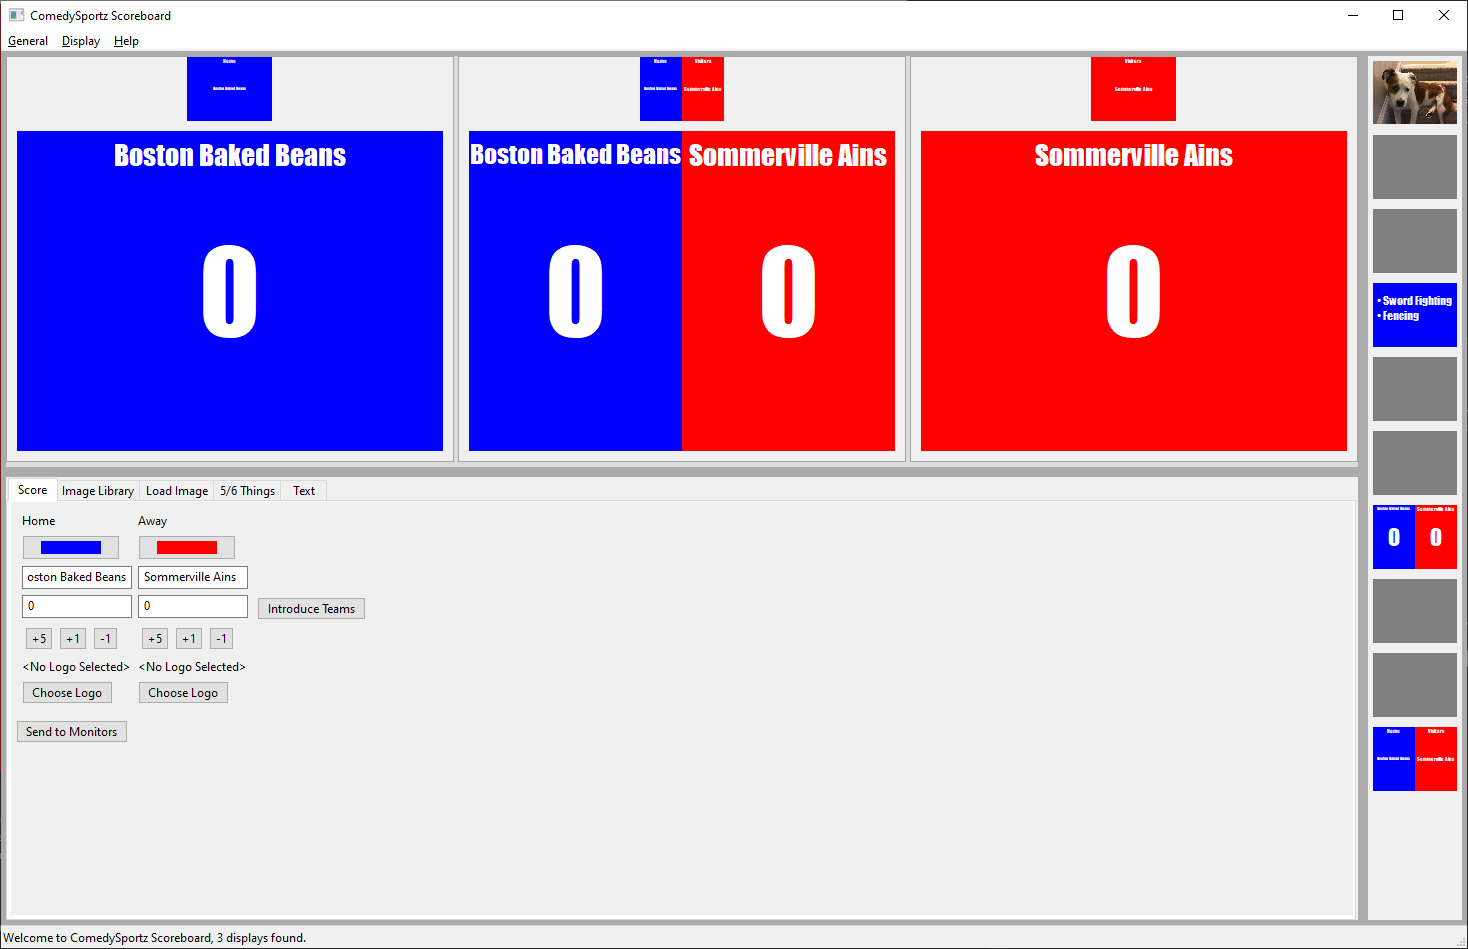
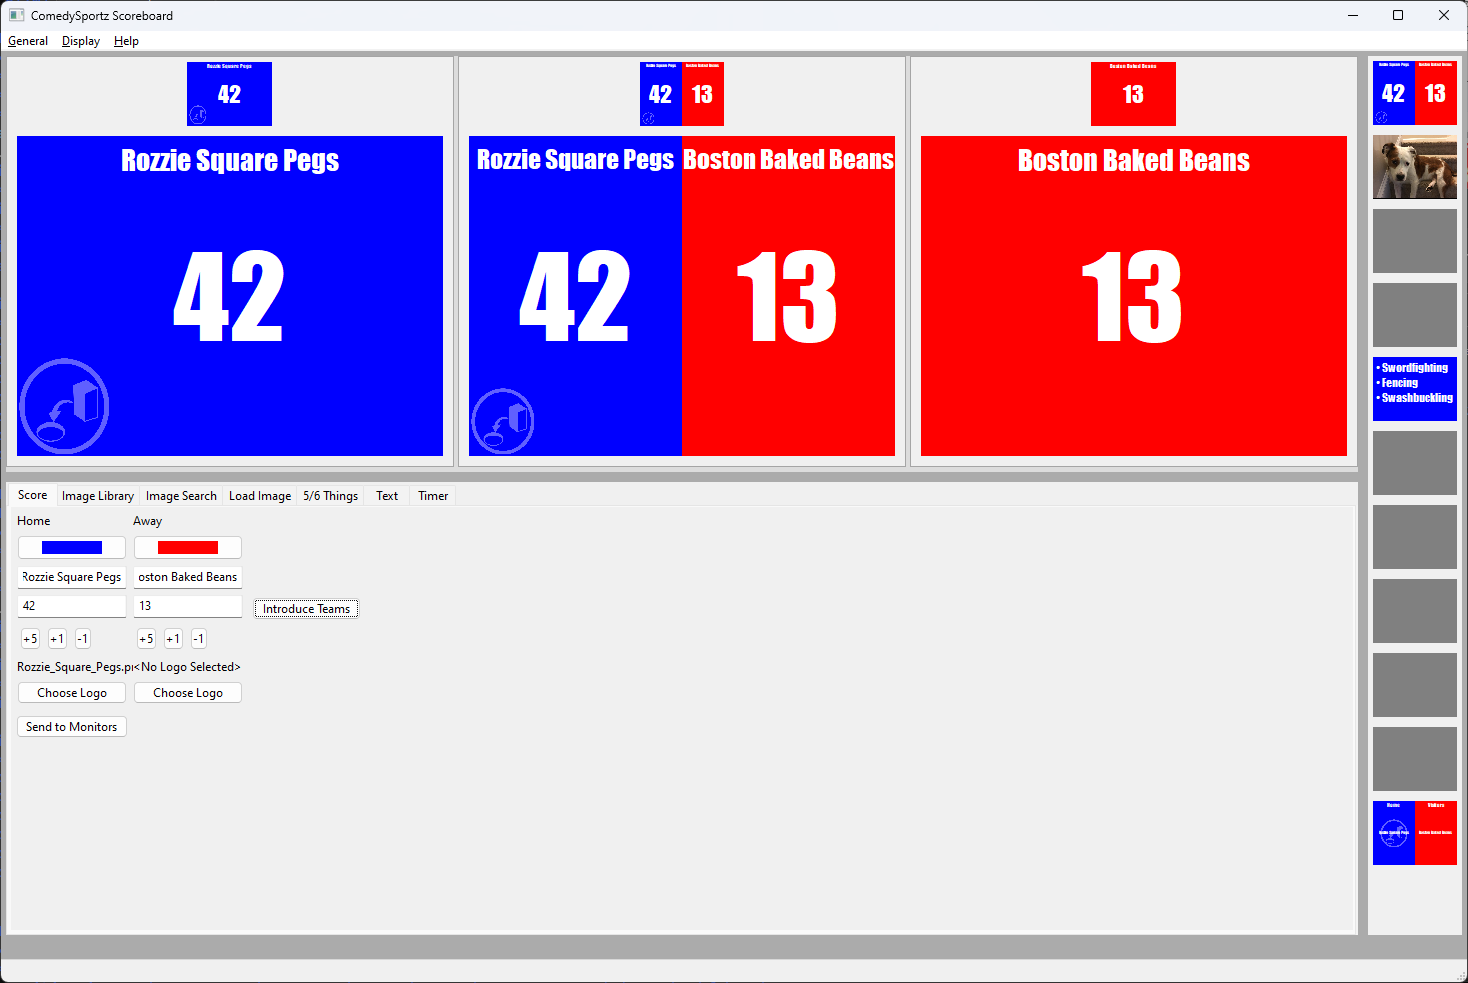
I think I'm done with this big documentation freshness pass.  Updated the rest of the fields and all screenshots are new as of version 1.5.0

diff --git a/doc/users.md b/doc/users.md
@@ -170,7 +170,7 @@ typical browser controls (such as back).
 ### Load Image
 
 ![alt](img/load_image_clipboard.png "Load Image")
-_(image taken in version 0.9.1, some visuals may have changed)_
+_(image taken in version 1.5.0, some visuals may have changed)_
 
 Load Image is the tab you want when you have an image that's not in your image library.  The browse
 button will open a file browser for supported image types (bmp/gif/jpeg/png).
@@ -181,7 +181,7 @@ error if the clipboard does not appear to contain an image.
 ### 5/6 Things
 
 ![alt](img/5_things.png "5/6 Things")
-_(image taken in version 0.9.1, some visuals may have changed)_
+_(image taken in version 1.5.0, some visuals may have changed)_
 
 The 5/6 Things tab is useful for displaying lists of items for guessing games, in particular 5 Things
 or 6 Things, where there are multiple items and multiple substitutions for items.  It defaults to
@@ -203,7 +203,7 @@ two lists of three activites, one for each team.
 ### Text
 
 ![alt](img/text.png "Text")
-_(image taken in version 0.9.1, some visuals may have changed)_
+_(image taken in version 1.5.0, some visuals may have changed)_
 
 This tab is pretty straight-forward.  You type in text to be shown and it displays.  The font size
 is a relative font, so it's less important to know what 10 or 20 means other than 20 is twice as
@@ -213,7 +213,7 @@ size is the maximum font size.
 ### Timer
 
 ![alt](img/timer_initial.png "Timer")
-_(image taken in version 1.1.0, some visuals may have changed)_
+_(image taken in version 1.5.0, some visuals may have changed)_
 
 This tab controls a timer which overlays on every other view.  The view you see in the preview pane
 will be the last tab you were in, timers are either shown on all windows
@@ -223,23 +223,29 @@ respectively.  Changing the value of the timer in the numeric fields implicitly 
 the new value, even if the timer is currently running.  Once running, the timer looks like this:
 
 ![alt](img/timer_running.png "Timer in progress")
-_(image taken in version 1.1.0, some visuals may have changed)_
+_(image taken in version 1.5.0, some visuals may have changed)_
 
 ## Quick States
 
 ![alt](img/quick_state.png "Quick States")
-_(image taken in version 0.9.3, some visuals may have changed)_
+_(image taken in version 1.5.0, some visuals may have changed)_
 
-Along the right-hand side of the window are 10 settable quick-states, for queuing up items to be
-displayed quickly.  Note that these are snapshots of a control's state, so, for instance, setting
+Along the right-hand side of the window are 1 special and 10 settable quick-states, for queuing up
+items to be displayed quickly.  The top quick state entry is always the current score, and can be
+selected at any time to give a score update.  The 10 entries below that may all be set to any
+control for quick display in the future.
+
+Note that these 10 are snapshots of a control's state, so, for instance, setting
 one of these to score will always show the score as of the time of the snapshotting (it will not
-update as the score changes).  This can be useful for flipping back and forth between a set 5 things
-list or setting up game displays ahead of time.  Whatever is convenient for your show.
+update as the score changes, unlike the top entry).  This can be useful for flipping back and forth
+between a set 5 things list or setting up game displays ahead of time.  Whatever is convenient for
+your show.
 
 Right click on any of the (initially gray) boxes to set the quick state to the current screen preview
 state.  Left clicking any populated quick state will send that state immediately to the monitors
 (leaving the current preview alone).  Additionally there are hotkeys for each state, Ctrl + [1-0]
 will use the currently set state, Ctrl + Alt + [1-0] will set the state to the current preview state.
+Ctrl + ` (the ~ key) will display the current score.
 
 ## Hotkeys
 
@@ -253,6 +259,7 @@ will use the currently set state, Ctrl + Alt + [1-0] will set the state to the c
 * Ctrl+w - Right team score +5
 * Ctrl+s - Right team score +1
 * Ctrl+x - Right team score -1
+* Ctrl+` - Display the score to the monitors.
 * Ctrl+_number_ - Display quick state _number_ to the monitors.  (1 is the first display, 9 is
 next-to-last, 0 is last)
 * Ctrl+Alt+_number_ - Set quick state _number_ to the current preview state.
